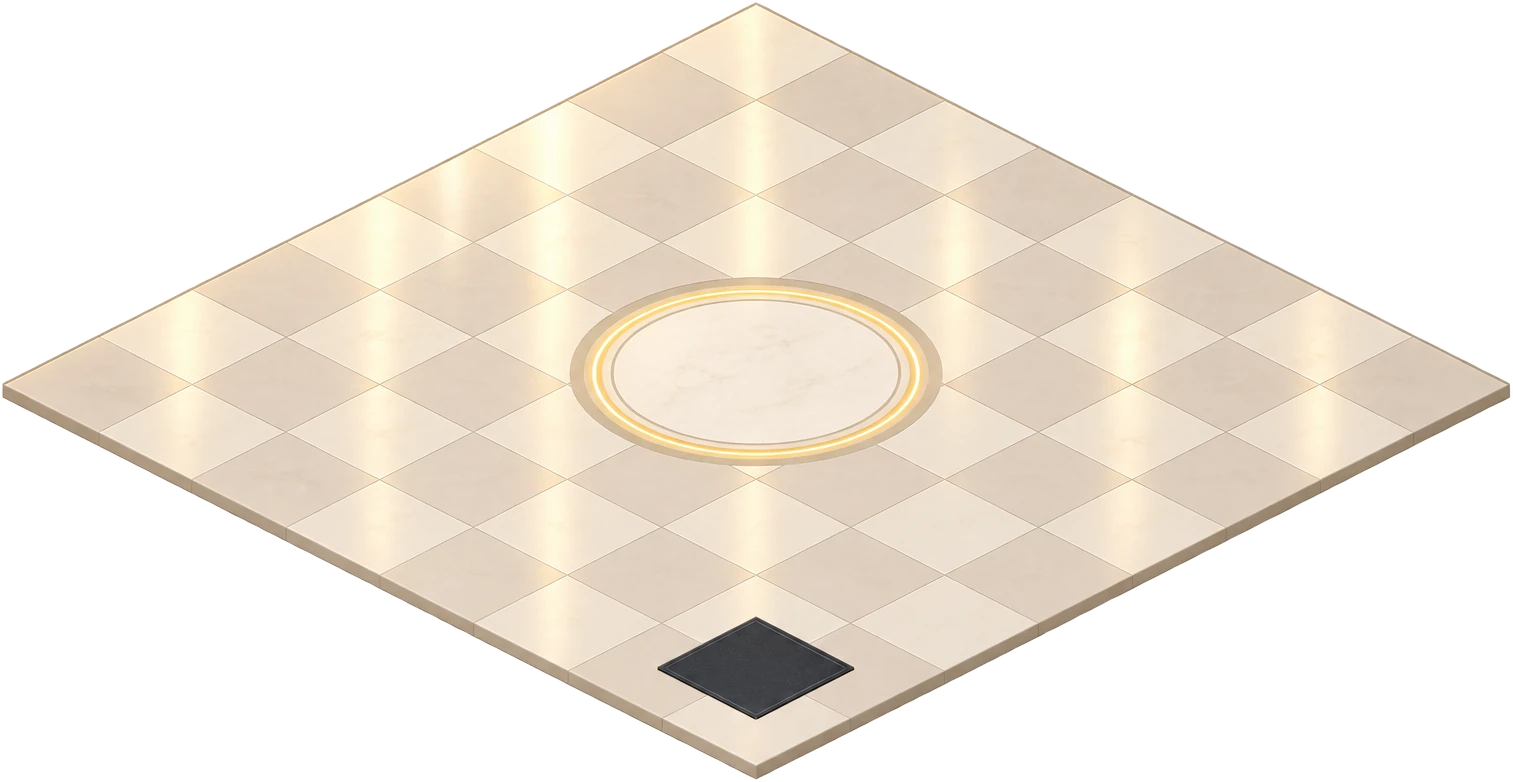
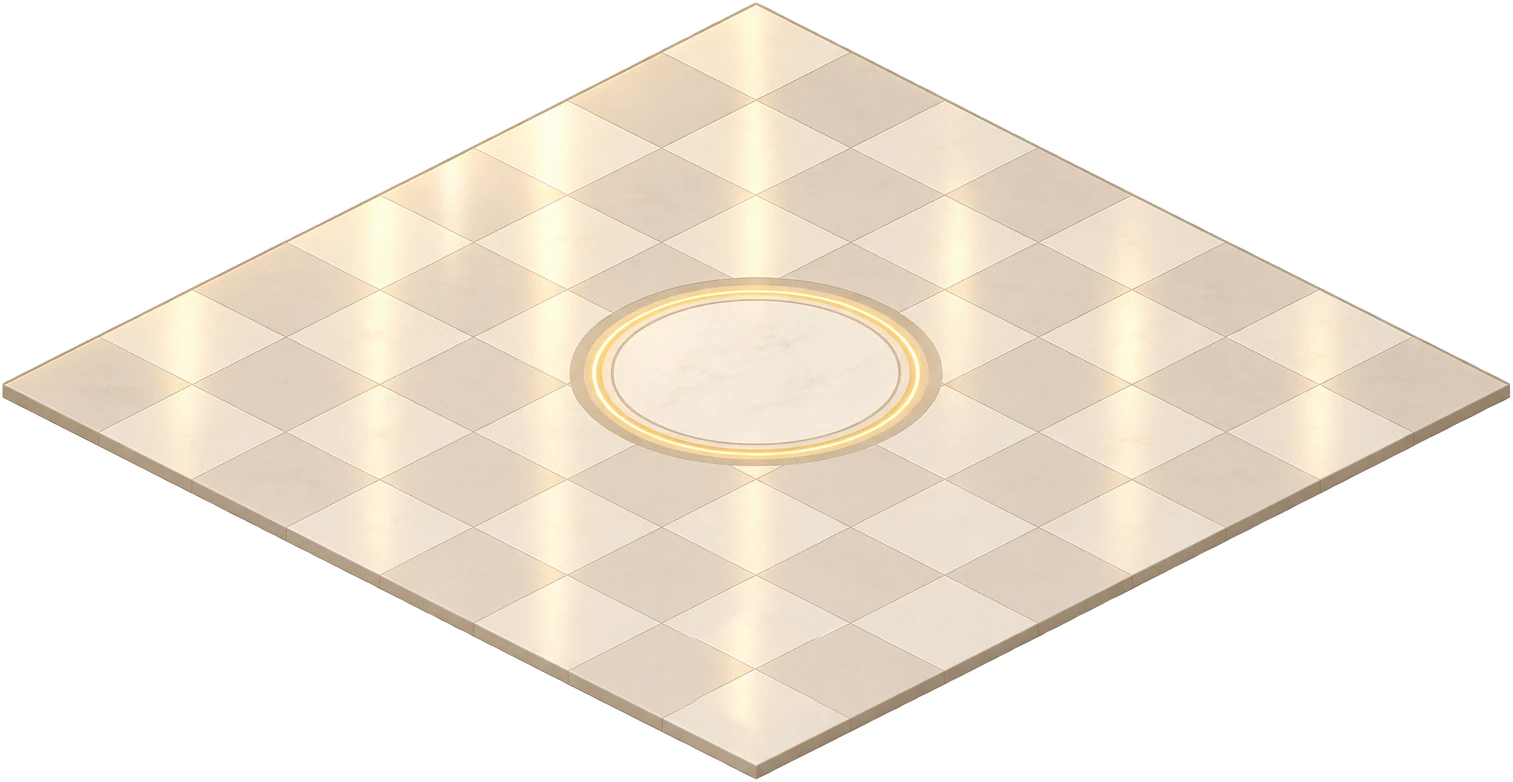
Emerald booth layout without the entrance mat and signs
About on top, Portfolio left (nudged onto the tile joints), Skills right as its mirror and Experience at the bottom, where the entrance mat was. The mat is painted out of the floor art, the welcome lettering and both standing signs are gone, and Experience visitors walk round to its open front.

Changed region(s): [[0.4349, 0.798, 0.5592, 0.9207]]

diff --git a/src/lobby/layers/Scene.ts b/src/lobby/layers/Scene.ts
@@ -1,20 +1,12 @@
 import { Container, Graphics } from "pixi.js";
-import type { Content } from "@/content/sections";
-import { ENTRANCE_MAT, PALETTE, PLAZA_CENTER, SITTERS, WORLD_SIZE } from "../config";
-import { depth, iso, isoCircle, rectPoly, TILE_W } from "../engine/iso";
+import { PALETTE, PLAZA_CENTER, SITTERS, WORLD_SIZE } from "../config";
+import { depth, iso, isoCircle, rectPoly } from "../engine/iso";
 import { piece } from "../assets";
-import { bench, box, DETAIL, label, lamp, planter, plant, sign } from "./draw";
+import { bench, box, lamp, planter, plant } from "./draw";
 import { seat } from "./Npc";
 
-/** Static floor: marble tiles, plaza rings, entrance mat. Drawn below everything. */
-export function buildFloor(text: Content["lobby"]): Container {
-  const floor = new Container();
-  floor.addChild(floorArt(), matLettering(text));
-  return floor;
-}
-
-/** Floor art (image from assets or vector placeholder). Contains no text, so it works in any language. */
-function floorArt(): Container {
+/** Static floor: marble tiles and plaza rings (image from assets or vector placeholder). Drawn below everything. */
+export function buildFloor(): Container {
   return piece("lobby-floor", () => {
     const c = new Container();
     const g = new Graphics();
@@ -45,32 +37,9 @@ function floorArt(): Container {
       const { rx, ry } = isoCircle(r);
       g.ellipse(center.x, center.y, rx, ry).stroke({ width: i === 1 ? 3 : 1.5, color: i === 1 ? PALETTE.glow : 0xd8cdbd, alpha: i === 1 ? 0.55 : 1 });
     });
-
-    // entrance mat
-    const { gx: mx, gy: my, size } = ENTRANCE_MAT;
-    box(g, mx - size / 2, my - size / 2, size, size, 2, 0x2b2f38);
-    g.poly(rectPoly(mx - size / 2 + 0.3, my - size / 2 + 0.3, size - 0.6, size - 0.6, 2)).stroke({ width: 1, color: 0x555a66 });
     c.addChild(g);
     return c;
   });
-}
-
-/** Mat lettering drawn over the floor art, in the current language. */
-function matLettering(text: Content["lobby"]): Container {
-  const mat = iso(ENTRANCE_MAT.gx, ENTRANCE_MAT.gy);
-  const welcome = new Container();
-  const t1 = label(text.mat[0], { fontSize: 13, fill: 0xf2ede4, fontWeight: "500" });
-  const t2 = label(text.mat[1], { fontSize: 6, fill: 0xb9b3a8, letterSpacing: 1.5 });
-  t1.anchor.set(0.5);
-  t2.anchor.set(0.5);
-  t2.y = 16;
-  t2.label = DETAIL;
-  welcome.addChild(t1, t2);
-  welcome.position.set(mat.x, mat.y - 6);
-  // keep both lines inside the mat whatever the language
-  const fit = Math.min(1, (ENTRANCE_MAT.size * TILE_W * 0.7) / Math.max(t1.width, t2.width));
-  welcome.scale.set(fit, fit * 0.62);
-  return welcome;
 }
 
 function place(target: Container, obj: Container, gx: number, gy: number) {
@@ -80,8 +49,8 @@ function place(target: Container, obj: Container, gx: number, gy: number) {
   target.addChild(obj);
 }
 
-/** Depth-sorted props: planter, plants, lamps, benches, signs. */
-export function buildDecor(entities: Container, text: Content["lobby"]) {
+/** Depth-sorted props: planter, plants, lamps, benches. */
+export function buildDecor(entities: Container) {
   place(entities, piece("planter-center", () => planter(2.2)), PLAZA_CENTER.gx, PLAZA_CENTER.gy);
 
   const plants: [number, number, number, number][] = [
@@ -93,8 +62,8 @@ export function buildDecor(entities: Container, text: Content["lobby"]) {
   plants.forEach(([gx, gy, s, v]) => place(entities, piece(v === 0 ? "plant-a" : "plant-b", () => plant(s, v), s), gx, gy));
 
   const lamps: [number, number][] = [
-    // the two front lamps stand clear of the bench ends
-    [11.2, 13.6], [18.8, 17.4], [13.6, 11.2], [17.4, 18.8], [21.8, 21.8], [24.2, 29.8], [29.8, 24.2],
+    // the two front plaza lamps stand clear of the bench ends; the last two flank the front of Experience
+    [11.2, 13.6], [18.8, 17.4], [13.6, 11.2], [17.4, 18.8], [24.2, 29.8], [29.8, 24.2],
   ];
   lamps.forEach(([gx, gy]) => place(entities, piece("lamp", () => lamp()), gx, gy));
 
@@ -106,7 +75,4 @@ export function buildDecor(entities: Container, text: Content["lobby"]) {
     const obj = s.kind === "sofa" ? piece("sofa", () => seat(true, true)) : piece("bench", () => seat(false), 0.9, true);
     place(entities, obj, s.gx, s.gy);
   });
-
-  place(entities, sign(text.signLeft), 19.8, 25.6);
-  place(entities, sign(text.signRight, { dark: true }), 27.4, 23.6);
 }

diff --git a/src/lobby/config.ts b/src/lobby/config.ts
@@ -6,8 +6,6 @@ import type { StandId } from "./store";
 
 export const WORLD_SIZE = 31;
 export const PLAZA_CENTER = { gx: 15, gy: 15 };
-/** Entrance mat: center and side length in tiles. Matches public/lobby/lobby-floor.webp. */
-export const ENTRANCE_MAT = { gx: 27.2, gy: 27.2, size: 4 };
 
 export const PALETTE = {
   background: 0x1c2231,
@@ -52,11 +50,14 @@ export type StandConfig = StandLayout & StandText;
 // Side walls by theme: About = warm sand (personal), Portfolio = navy (work),
 // Skills = sage (growth), Experience = walnut (career path).
 // Walls sit on each booth’s far edges (gx and gy), so visitor routes stay on the open (near) sides.
+// The booths form an emerald around the plaza on screen: About on top, Portfolio left, Skills right
+// (Portfolio mirrored across the vertical axis, i.e. its footprint centre with gx and gy swapped)
+// and Experience at the bottom, pushed down just enough for its walls to clear the plaza rim.
 const STAND_LAYOUT: StandLayout[] = [
   { id: "about", gx: 3.5, gy: 4, w: 6, d: 4.5, accent: 0xc9a27a, sideWall: 0xdcb68c, icon: "person", receptionist: { hair: 0x2d2420, shirt: 0x2f3b5c } },
-  { id: "portfolio", gx: 4, gy: 18, w: 6, d: 4.5, accent: 0x1f2a44, sideWall: 0x2a3657, icon: "folder", receptionist: { hair: 0x3b2a22, shirt: 0x1f2a44 } },
-  { id: "skills", gx: 18, gy: 4, w: 6, d: 4.5, accent: 0x4f6b62, sideWall: 0x5f7f6f, icon: "gear", receptionist: { hair: 0x4a3226, shirt: 0x4f6b62, glasses: true } },
-  { id: "experience", gx: 22.5, gy: 16, w: 6, d: 4.5, accent: 0x8a6a52, sideWall: 0x8a6448, icon: "briefcase", receptionist: { hair: 0x5a3b2a, shirt: 0x2f3b5c } },
+  { id: "portfolio", gx: 3.875, gy: 18.75, w: 6, d: 4.5, accent: 0x1f2a44, sideWall: 0x2a3657, icon: "folder", receptionist: { hair: 0x3b2a22, shirt: 0x1f2a44 } },
+  { id: "skills", gx: 18, gy: 4.625, w: 6, d: 4.5, accent: 0x4f6b62, sideWall: 0x5f7f6f, icon: "gear", receptionist: { hair: 0x4a3226, shirt: 0x4f6b62, glasses: true } },
+  { id: "experience", gx: 21.55, gy: 22.55, w: 6, d: 4.5, accent: 0x8a6a52, sideWall: 0x8a6448, icon: "briefcase", receptionist: { hair: 0x5a3b2a, shirt: 0x2f3b5c } },
 ];
 
 export function standsFor(text: Content["lobby"]): StandConfig[] {
@@ -66,7 +67,7 @@ export function standsFor(text: Content["lobby"]): StandConfig[] {
 // Walkable graph for visitors: a ring around the central planter plus a few spurs.
 export const WAYPOINTS: Record<string, { gx: number; gy: number; links: string[]; faces?: StandId }> = {
   r0: { gx: 20.6, gy: 15, links: ["r1", "r7"] },
-  r1: { gx: 19, gy: 19, links: ["r0", "r2", "gate"] },
+  r1: { gx: 19, gy: 19, links: ["r0", "r2"] },
   r2: { gx: 15, gy: 20.6, links: ["r1", "r3", "lounge"] },
   r3: { gx: 11, gy: 19, links: ["r2", "r4", "port"] },
   r4: { gx: 9.4, gy: 15, links: ["r3", "r5", "port"] },
@@ -76,9 +77,9 @@ export const WAYPOINTS: Record<string, { gx: number; gy: number; links: string[]
   about: { gx: 10.4, gy: 10, links: ["r5", "r6"], faces: "about" },
   port: { gx: 11.2, gy: 20.4, links: ["r3", "r4"], faces: "portfolio" },
   skill: { gx: 19.5, gy: 9.8, links: ["r6", "r7"], faces: "skills" },
-  exp: { gx: 25, gy: 21.8, links: ["gate"], faces: "experience" },
-  gate: { gx: 22.3, gy: 22.3, links: ["r1", "exp"] },
-  lounge: { gx: 17, gy: 22.2, links: ["r2"] },
+  // Experience opens away from the plaza, so its visitors walk round the side wall to the front
+  exp: { gx: 21.9, gy: 28.6, links: ["lounge"], faces: "experience" },
+  lounge: { gx: 17, gy: 22.2, links: ["r2", "exp"] },
 };
 
 export const VISITORS = [

diff --git a/src/lobby/engine/createLobby.ts b/src/lobby/engine/createLobby.ts
@@ -1,7 +1,7 @@
 import { Application, Container, type FederatedPointerEvent } from "pixi.js";
 import gsap from "gsap";
 import { content, type Locale } from "@/content/sections";
-import { ENTRANCE_MAT, PALETTE, PLAZA_CENTER, SITTERS, VISITORS, WAYPOINTS, WORLD_SIZE, standsFor } from "../config";
+import { PALETTE, PLAZA_CENTER, SITTERS, VISITORS, WAYPOINTS, WORLD_SIZE, standsFor } from "../config";
 import { ASSETS, loadAssets } from "../assets";
 import { lobbyStore, type StandId } from "../store";
 import { DETAIL, fonts } from "../layers/draw";
@@ -74,14 +74,14 @@ export async function createLobby(host: HTMLElement, locale: Locale): Promise<()
 
   // --- layers ---
   const world = new Container();
-  const floor = buildFloor(text);
+  const floor = buildFloor();
   const entities = new Container();
   entities.sortableChildren = true;
   const bubbles = new Container();
   world.addChild(floor, entities, bubbles);
   app.stage.addChild(world);
 
-  buildDecor(entities, text);
+  buildDecor(entities);
 
   const stands = new Map<StandId, Stand>();
   for (const cfg of standsFor(text)) {
@@ -115,7 +115,7 @@ export async function createLobby(host: HTMLElement, locale: Locale): Promise<()
   const camera = new Camera(world, app.canvas, BOUNDS, (kind) => {
     if (store.getState().pointer !== kind) store.getState().setPointer(kind);
   });
-  // What the first view must show: every booth (walls included) down to the entrance mat.
+  // What the first view must show: every booth, walls included.
   const booths = (() => {
     const xs: number[] = [];
     const ys: number[] = [];
@@ -124,7 +124,6 @@ export async function createLobby(host: HTMLElement, locale: Locale): Promise<()
       xs.push(iso(cfg.gx, cfg.gy + cfg.d).x, iso(cfg.gx + cfg.w, cfg.gy).x);
       ys.push(far.y - 110, iso(cfg.gx + cfg.w, cfg.gy + cfg.d).y);
     }
-    ys.push(iso(ENTRANCE_MAT.gx + ENTRANCE_MAT.size / 2, ENTRANCE_MAT.gy + ENTRANCE_MAT.size / 2).y); // entrance mat
     return { minX: Math.min(...xs), maxX: Math.max(...xs), minY: Math.min(...ys), maxY: Math.max(...ys) };
   })();
   const home = () => {
@@ -136,7 +135,7 @@ export async function createLobby(host: HTMLElement, locale: Locale): Promise<()
     // ~18% closer than "whole island" so booths read better; the empty floor tips may crop,
     // but never a booth or the entrance
     const margin = 40;
-    const hintBar = 36; // bottom hint pill: keep the entrance mat lettering above it
+    const hintBar = 36; // bottom hint pill: keep the front booth above it
     const contentFit = Math.min(
       width / (booths.maxX - booths.minX + margin * 2),
       (height - hintBar) / (booths.maxY - booths.minY + margin * 2),

diff --git a/src/content/sections.ts b/src/content/sections.ts
@@ -267,9 +267,6 @@ const es = {
     activeGreeting: "¡Bienvenida/o! Aquí tienes todo 👉",
     visitorLines: ["Qué interesante 👏", "¡Mira este proyecto! 😍", "Me encanta este lugar", "¿Ya viste Habilidades?", "Qué buena idea 💡", "Voy a Experiencias"],
     sitterLines: [["Qué interesante 👏"], ["Mira este proyecto 😍"], ["Buenas ideas ✨", "Me quedo un rato más"]],
-    signLeft: ["TU PRÓXIMO", "GRAN PROYECTO", "TAMBIÉN", "EMPIEZA AQUÍ →"],
-    signRight: ["EXPLORA", "CONECTA", "INSPÍRATE", "CREA →"],
-    mat: ["B I E N V E N I D O", "EXPLORA · HAZ CLICK · DESCUBRE"],
     plazaSign: "Sadiel’s Plaza",
   },
 };
@@ -507,9 +504,6 @@ const en: Content = {
     activeGreeting: "Welcome! Here's everything 👉",
     visitorLines: ["How interesting 👏", "Check out this project! 😍", "I love this place", "Seen the Skills booth?", "Great idea 💡", "Heading to Experience"],
     sitterLines: [["How interesting 👏"], ["Look at this project 😍"], ["Good ideas ✨", "I'll stay a bit longer"]],
-    signLeft: ["YOUR NEXT", "BIG PROJECT", "ALSO", "STARTS HERE →"],
-    signRight: ["EXPLORE", "CONNECT", "GET INSPIRED", "CREATE →"],
-    mat: ["W E L C O M E", "EXPLORE · CLICK · DISCOVER"],
     plazaSign: "Sadiel’s Plaza",
   },
 };

diff --git a/src/lobby/layers/draw.ts b/src/lobby/layers/draw.ts
@@ -114,31 +114,3 @@ export function planter(radius: number): Container {
   c.addChild(g);
   return c;
 }
-
-/** Standing sign board that grows to fit its lines. */
-export function sign(lines: string[], opts: { dark?: boolean } = {}): Container {
-  const c = new Container();
-  const g = new Graphics();
-  const texts = lines.map((line) =>
-    label(line, { fontSize: 6.5, fill: opts.dark ? 0xffffff : PALETTE.ink, fontWeight: "600", letterSpacing: 0.5 }),
-  );
-  const pad = 6;
-  const lineH = 9;
-  const w = Math.max(46, ...texts.map((t) => t.width + pad * 2));
-  const h = Math.max(40, texts.length * lineH + pad * 2);
-  const top = -h - 10;
-  g.ellipse(0, 0, w * 0.4, 6).fill({ color: 0x000000, alpha: 0.15 });
-  g.rect(-3, -10, 6, 10).fill(PALETTE.navy);
-  g.roundRect(-w / 2 - 3, top - 3, w + 6, h + 6, 3).fill(PALETTE.navy);
-  g.roundRect(-w / 2, top, w, h, 2).fill(opts.dark ? PALETTE.navy : PALETTE.wall);
-  c.addChild(g);
-  // the lettering is small print: the engine fades every "detail" in on zoom
-  const lettering = new Container({ label: DETAIL });
-  texts.forEach((t, i) => {
-    t.x = -w / 2 + pad;
-    t.y = top + pad + i * lineH;
-    lettering.addChild(t);
-  });
-  c.addChild(lettering);
-  return c;
-}

diff --git a/ASSETS.md b/ASSETS.md
@@ -22,7 +22,7 @@ La lógica (hover, zoom, NPCs) no cambia: solo cambia lo que se ve.
 
 | Key (`assets.ts`) | Qué es | Tamaño sugerido | Anchor |
 |---|---|---|---|
-| `lobby-floor` | Suelo completo del lobby, vacío (mármol, anillos de la plaza, alfombra **sin texto**; el texto lo pone el código en el idioma activo) | ✅ `lobby-floor.webp`, hecho con la plantilla `art/reference/lobby-floor.png` (plaza de radio 5.4 casillas, alfombra en `ENTRANCE_MAT`) | Esquina superior del rombo; 0.76 px por px del mundo |
+| `lobby-floor` | Suelo completo del lobby, vacío (mármol, anillos de la plaza, alfombra **sin texto**; el texto lo pone el código en el idioma activo) | ✅ `lobby-floor.webp`, hecho con la plantilla `art/reference/lobby-floor.png` (plaza de radio 5.4 casillas). La alfombra de entrada se borró al preparar la imagen, continuando el mármol, porque ahí va el stand de Experiencias | Esquina superior del rombo; 0.76 px por px del mundo |
 | `planter-center` | Jardinera redonda de la plaza con su árbol, **sin bancas ni placa** (las pone el código) | ✅ `planter-center.webp`, 1100 × 1056 | Ancho 200 px, se apoya en el centro de la base (45 px sobre el borde inferior); la placa va en la banda frontal |
 | `stand-about` | Stand "Sobre mí": solo paredes en L y suelo, **paredes lisas** (letrero, textos, iconos y cuadros los dibuja el código encima). Plantilla: `art/reference/stand-about.png` | ✅ `stand-about.webp`, recortada del lienzo de la plantilla (1536 × 1024) | Esquina del fondo donde se juntan las paredes y el suelo |
 | `stand-portfolio` | Igual, pared lateral azul marino. Plantilla: `art/reference/stand-portfolio.png` | ✅ `stand-portfolio.webp` | Igual |
